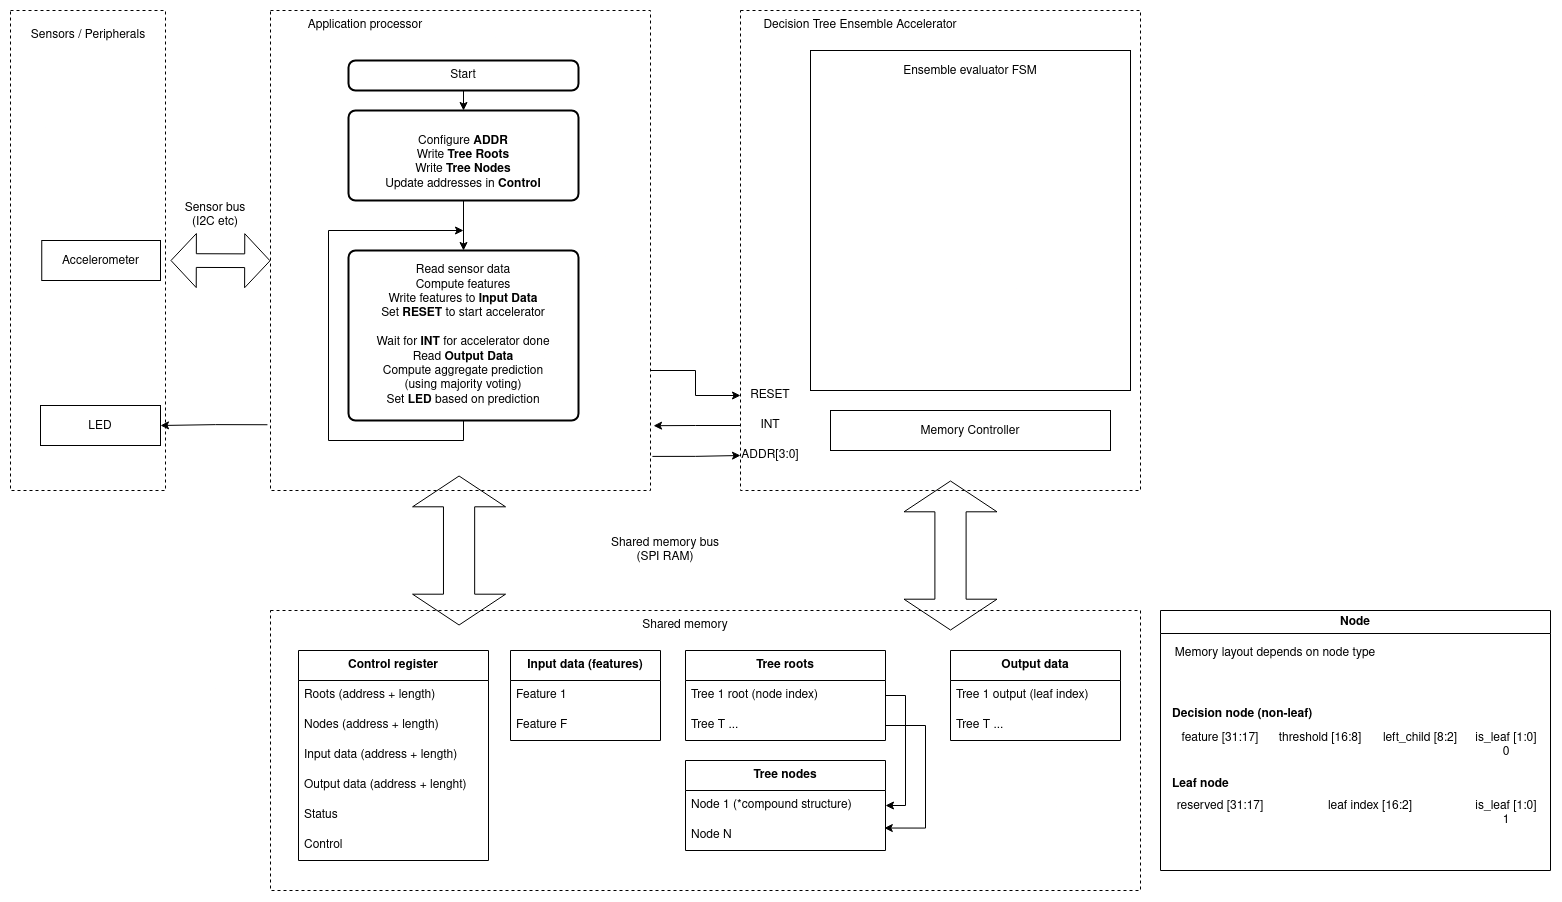
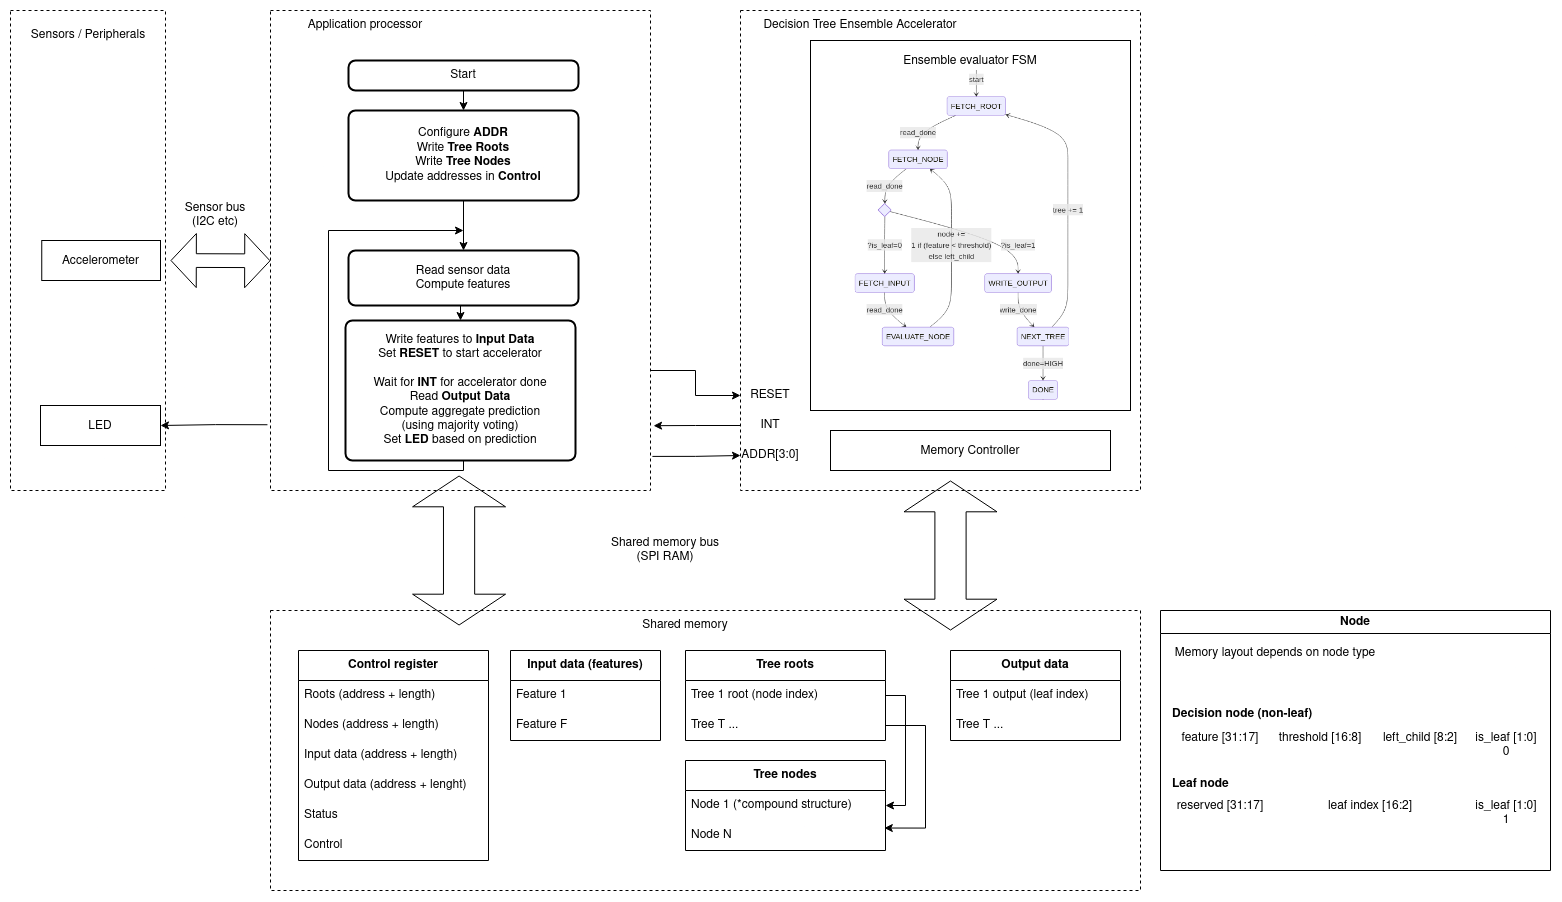
hwtrees: Update docs

diff --git a/projects/hwtrees/notes.md b/projects/hwtrees/notes.md
@@ -1,20 +1,13 @@
 
-# Motivation
-
-Running Machine Learning inference directly on (MEMS) sensors is attractive
-for TinyML applications to reducing the amount of data that needs to be transported,
-which typically has power efficiency benefits.
-
-We would like to research how one could implement hardware-acceleration blocks,
-as using a general-purpose CPU might not be as power efficient.
-
-Specifically we are focusing on decision tree ensembles,
-as these are quite powerful, computationally efficient,
-and may be suited for a compact implementation in hardware.
-
-Looking to deploy into silicon using the [TinyTapeout project](https://tinytapeout.com/).
-
 # Design
+
+## Decision tree ensembles
+
+![](./doc/decision-tree-ensemble.png)
+
+## System architecture
+
+![System diagram](./doc/hwtrees_system.png)
 
 ## Operating principle
 
@@ -31,31 +24,33 @@ Puts in data in RAM, triggers the RF engine, waits for completion, reads out res
 The accelerator also has a CLOCK pin, and a RESET pin.
 Possibly also a RUN pin, and a INT pin for signalling.
 
-## Scope
-Random Forest multi-class classification.
+# Scope
+For version 1. Random Forest multi-class classification.
 
-- Addresses of all data specified via RAM
 - Support multiple trees, executing all in one run.
-- Specific root node address/offset? 
-- Support multiple tree outputs.
-- Can be used with SPI RAM emulated by RP2040. 64 kB
+- Outputs the predictions of all trees separately (leaf indices). Aggregation done on CPU side
+- Can be used with SPI RAM connected to board
 - Works with a standard microcontroller, like RP2040
+- Addresses of all data specified via control register in RAM
+- Sequential execution. No pipelining or parallell execution
+- Blocking reads from RAM. No caches etc
 
 #### Not sure
 
 - Can be used with QSPI RAM provided by PMOD. 8 MB ?
-Maybe QSPI should actually be later... Just plain SPI, 16 bit for now?
+Maybe QSPI should actually be later...
+Just plain SPI, 16 bit addresses for now?
 
 #### Stretch
 
-- Match performance of just-doing-it-in-CPU-instructions
+- Match or exceed performance of CPU-based decision tree evaluation. At least that of a TinyTapeout CPU.
 - Works with a TinyTape microcontroller. Like tt06 tinyQV
-- Output aggregated prediction of entire forest. Argmax or proba.
-Fallback. Output prediction from each tree separately.
-Leaf handling and aggregation done on CPU side.
 
 #### Non goals / out of scope
+At least for version 1.
 
+- Output aggregated prediction of entire forest. Argmax or proba.
+- Pipelining or other perf tricks to reduce impact of slow I/O
 - Parallel execution of trees
 
 ## Requirements

diff --git a/projects/hwtrees/README.md b/projects/hwtrees/README.md
@@ -1,0 +1,38 @@
+
+# Hardware accelerator for Decision Tree Ensembles
+
+Developing an hardware accelerator for decision tree ensembles ([Random Forest](https://en.wikipedia.org/wiki/Random_forest) etc).
+With the eventual goal of taping out as an ASIC via the [Tiny Tapeout](https://tinytapeout.com/) project.
+An intermediate goal is to have the accelerator running on an ICE40 FPGA board.
+
+Caveat: This is my first FPGA project since university classes.
+Newbie mistakes and bad practices are likely!
+
+## Status
+**Concept design only**. Implementation not started.
+
+- First version(s) are intended to be functional demonstrators only. Not optimized for performance or power.
+- Some initial research has been done
+- System architecture in sketch phase
+- No code yet
+
+## Motivation
+
+Running Machine Learning inference directly on (MEMS) sensors is attractive
+for TinyML applications to reducing the amount of data that needs to be transported,
+which typically has power efficiency benefits.
+
+We would like to research how one could implement modular hardware-acceleration blocks,
+and how this may enable better power efficiency than a general-purpose microcontroller CPU.
+This includes both feature extraction as well as classification modules.
+
+As the classifiers we are focusing on decision tree ensembles,
+as these are quite powerful, computationally efficient,
+and may be suited for a compact implementation in hardware.
+
+Usescases we are interested in evaluated include Human Activity Detection using accelerometer,
+and potentially Sound Event Detection using microphone. 
+
+## More
+
+See [notes.md](./notes.md) for the work-in-progress
